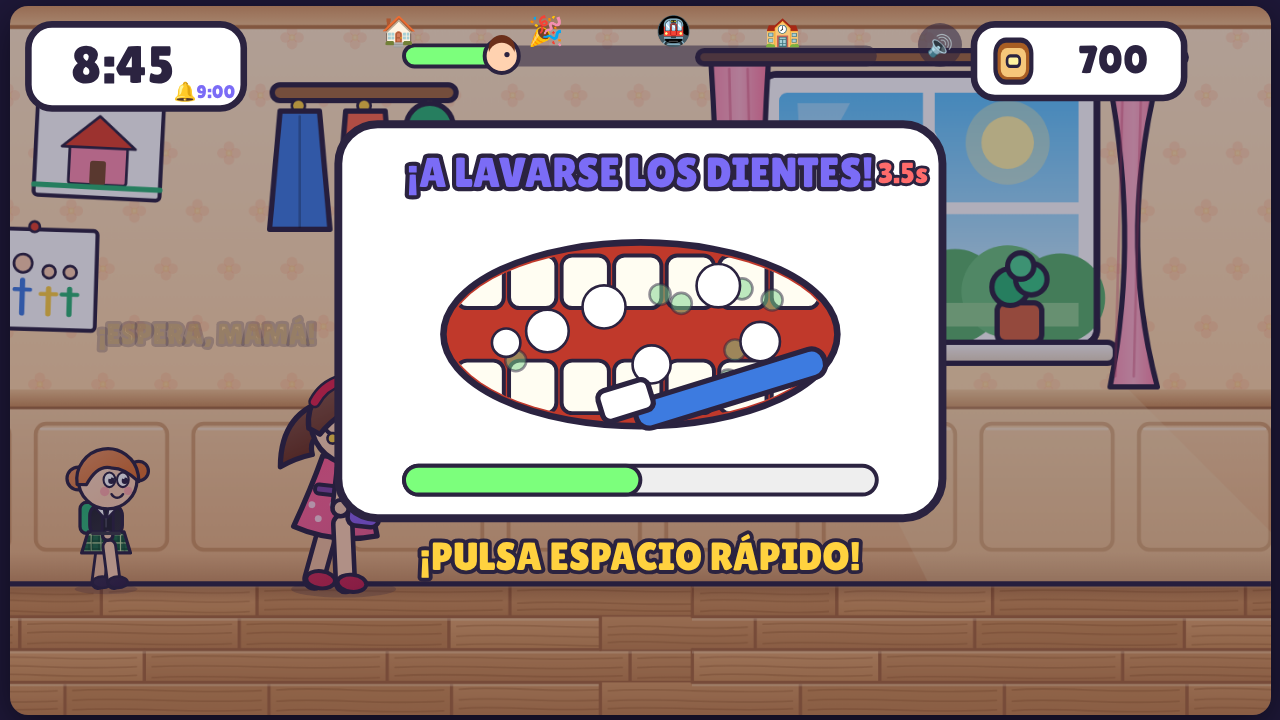
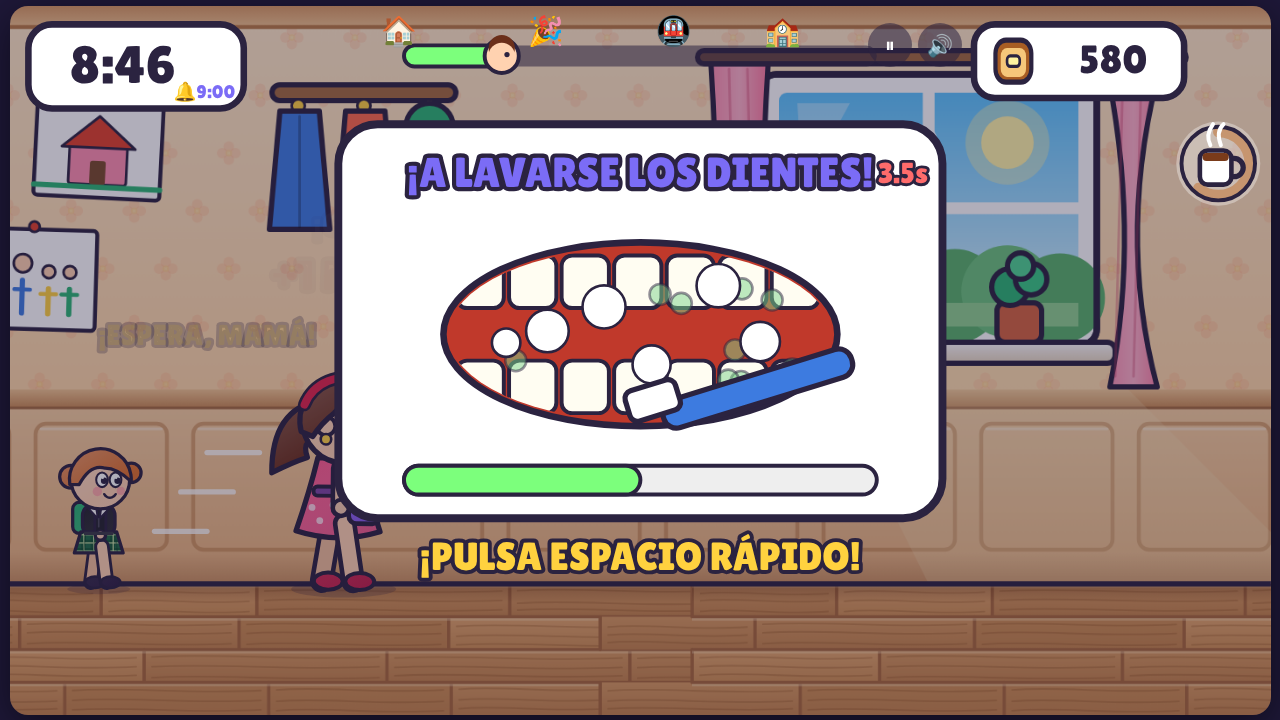
Álvaro's Gastrobar en Alcobendas, con Blanca saludando
Antes de llegar al cole aparece la fachada de Álvaro's Gastrobar (letrero de madera
con bombillas, toldo, escaparate con la barra y terraza). Blanca sale a la puerta,
saluda con la mano y con la voz, y os invita a un café (turbo).
Tests, capturas y README actualizados; el contador de visitas no se carga en los tests.

diff --git a/web/js/fondos.js b/web/js/fondos.js
@@ -419,3 +419,46 @@ function drawSchoolGate(sx,open){
   const w=170*(1-open);for(let x=0;x<w;x+=20)seg(sx+10+x,GY-180,sx+10+x,GY,'#4a4a5c',6);
   if(w>4){seg(sx+10,GY-180,sx+10+w,GY-180,'#4a4a5c',8);seg(sx+10,GY-90,sx+10+w,GY-90,'#4a4a5c',6);}
 }
+
+// ---------------- ÁLVARO'S GASTROBAR (Alcobendas) ----------------
+function drawAlvaros(sx,t){
+  const top=GY-300,w=420;
+  // fachada
+  rr(sx,top,w,300,6,lin(sx,0,sx+w,0,[[0,'#f4e6cc'],[1,'#ead6b2']]),5);
+  rr(sx-8,top-14,w+16,18,4,'#fffaf0',4);
+  // letrero de madera con bombillas
+  const lx=sx+40,ly=top+18,lw=340,lh=84;
+  seg(lx+70,top+4,lx+70,ly,'#5a4030',3);seg(lx+lw-70,top+4,lx+lw-70,ly,'#5a4030',3);
+  rr(lx,ly,lw,lh,8,'#24160f',0);rr(lx+4,ly+4,lw-8,lh-8,6,'#d9a868',0);rr(lx+12,ly+12,lw-24,lh-24,4,'#fffaf0',0);
+  const ph=Math.floor(t*4);let i=0;
+  for(let x=lx+14;x<=lx+lw-14;x+=14){[ly+8,ly+lh-8].forEach(y=>{const on=(i+ph)%3!==0;if(on){ctx.globalAlpha=.35;circ(x,y,5,'#ffe08a',0);ctx.globalAlpha=1;}circ(x,y,2.6,on?'#fff3b0':'#a8743e',0);i++;});}
+  // taza con vapor
+  rr(lx+26,ly+34,26,22,4,'#fff',3);rr(lx+26,ly+34,26,5,2,'#6f3b1e',0);ctx.beginPath();ctx.arc(lx+54,ly+45,6,-Math.PI/2,Math.PI/2);ctx.lineWidth=3;ctx.strokeStyle=OL;ctx.stroke();
+  for(let k=0;k<2;k++){ctx.beginPath();ctx.moveTo(lx+34+k*10,ly+30);ctx.quadraticCurveTo(lx+30+k*10+Math.sin(t*3+k)*3,ly+24,lx+36+k*10,ly+16);ctx.lineWidth=2.5;ctx.strokeStyle='#c9c9d4';ctx.stroke();}
+  txt("ÁLVARO'S",lx+lw/2+22,ly+36,34,'#c0392b','center','#fffaf0');
+  ctx.font="12px 'Lilita One',system-ui,sans-serif";ctx.textAlign='center';ctx.fillStyle='#8a5a32';ctx.fillText('G A S T R O B A R',lx+lw/2+22,ly+62);
+  // toldo
+  const ay=top+120;for(let k=0;k<12;k++){ctx.beginPath();const ax=sx+14+k*33;ctx.moveTo(ax,ay);ctx.lineTo(ax+33,ay);ctx.lineTo(ax+33,ay+26);ctx.quadraticCurveTo(ax+16,ay+36,ax,ay+26);ctx.closePath();shape(k%2?'#fffaf0':'#c0392b',0);}
+  rr(sx+14,ay,396,26,2,null,4);
+  // escaparate con el bar por dentro
+  const wx=sx+22,wy=ay+40,ww=250,wh=GY-wy-8;
+  rr(wx,wy,ww,wh,4,'#fdf6e8',4);
+  ctx.save();ctx.beginPath();ctx.rect(wx+3,wy+3,ww-6,wh-6);ctx.clip();
+  fillR(wx,wy,ww,wh,lin(0,wy,0,wy+wh,[[0,'#fff6dc'],[1,'#f3dfb8']]));
+  // lámparas y estantería
+  [wx+60,wx+190].forEach(x=>{seg(x,wy,x,wy+18,OL,2);ctx.beginPath();ctx.arc(x,wy+26,12,Math.PI,0);ctx.closePath();shape('#e9b820',2.5);ctx.globalAlpha=.25;circ(x,wy+34,26,'#fff3b0',0);ctx.globalAlpha=1;});
+  rr(wx+20,wy+48,210,6,2,'#a8713a',2);for(let k=0;k<9;k++)rr(wx+26+k*23,wy+32,12,16,3,['#e9b820','#8c7279','#2bb673','#c0392b'][k%4],2);
+  // barra
+  rr(wx,wy+wh-46,ww,46,0,'#a8713a',0);rr(wx,wy+wh-50,ww,6,0,'#dcae74',0);
+  [wx+40,wx+110,wx+180].forEach(x=>{rr(x,wy+wh-66,16,16,3,'#fff',2);rr(x,wy+wh-66,16,4,1,'#6f3b1e',0);});
+  rr(wx+140,wy+wh-90,40,40,6,'#9aa3a8',2.5);rr(wx+146,wy+wh-82,28,10,2,'#3a3f42',0);
+  ctx.restore();
+  ctx.globalAlpha=.35;ctx.beginPath();ctx.moveTo(wx+18,wy+8);ctx.lineTo(wx+60,wy+8);ctx.lineTo(wx+26,wy+wh-10);ctx.closePath();ctx.fillStyle='#fff';ctx.fill();ctx.globalAlpha=1;
+  rr(wx,wy,ww,wh,4,null,4);
+  // puerta
+  const dx=sx+296,dw=96;rr(dx,wy-6,dw,GY-wy+6,6,'#8a5a32',4);rr(dx+10,wy+6,dw-20,GY-wy-40,4,'#cfeeff',3);circ(dx+dw-16,GY-60,4,'#ffd23f',2);
+  rr(dx+14,wy+24,dw-28,22,4,'#fff',2);txt('ABIERTO',dx+dw/2,wy+35,12,'#2bb673','center','#fff');
+  // terraza
+  const tx=sx-110;rr(tx+40,GY-70,8,70,2,'#3a3550',2);ell(tx+44,GY-72,40,8,'#fffaf0',3);rr(tx+30,GY-88,14,12,3,'#fff',2);
+  [tx,tx+80].forEach(x=>{rr(x,GY-48,24,6,2,'#c0392b',2.5);seg(x+3,GY-42,x+3,GY,OL,3);seg(x+21,GY-42,x+21,GY,OL,3);seg(x+21,GY-48,x+21,GY-80,OL,3);});
+}

diff --git a/web/js/personajes.js b/web/js/personajes.js
@@ -10,6 +10,7 @@ const HEROES={
         lines:['¡Vamos, cariño!','¡Que llegamos tarde!','¿Y los zapatos?','¡Corre, corre!','¡La mochila!','¡Mis llaves!']},
   papa:{name:'Papá',hair:'#2d2016',top:'#3d7be0',bottom:'#2f3b66',leg:'#2f3b66',shoe:'#6b4423',tie:'#e0412a',
         lines:['¡Vamos, campeones!','¡Que llegamos tarde!','¿Quién tiene el almuerzo?','¡Corre, corre!','¡Ese abrigo!']},
+  blanca:{name:'Blanca',hair:'#f2c94c',bun:true,top:'#23232b',dots:'#23232b',belt:'#fff',leg:SKIN,shoe:'#2b2340',mom:true,apron:true,noBag:true,lines:[]},
   conserje:{name:'Conserje',hair:'#b9bfcc',top:'#3a4a6a',bottom:'#2b3352',leg:'#2b3352',shoe:'#222',tie:'#b9bfcc',noBag:true,lines:[]}
 };
 
@@ -69,24 +70,28 @@ function drawAdult(x,y,o){
   // pierna de delante
   limb(hip.x+5,hip.y,hip.x+5+ff.x,hip.y+ff.y,P.mom?SKIN:P.leg,11);ell(hip.x+5+ff.x+5,hip.y+ff.y,11,6.5,P.shoe,3);
   // bolso (mamá)
-  if(P.mom){seg(4,-92,18,-62,OL,3);rr(8,-66,24,20,6,'#8b5cf6',3.5);rr(16,-62,8,4,2,'#ffd23f',0);}
+  if(P.apron){ctx.beginPath();ctx.moveTo(-12,-74);ctx.lineTo(12,-74);ctx.lineTo(20,-40);ctx.lineTo(-20,-40);ctx.closePath();shape('#fff',3);seg(-12,-74,-6,-94,OL,2);seg(12,-74,6,-94,OL,2);rr(-8,-62,16,10,3,'#f6efe2',2);}
+  if(P.mom&&!P.noBag){seg(4,-92,18,-62,OL,3);rr(8,-66,24,20,6,'#8b5cf6',3.5);rr(16,-62,8,4,2,'#ffd23f',0);}
   // brazo de delante
-  const front=st==='jump'?{x:26,y:-128}:{x:2+Math.sin(aa)*28,y:-88+Math.cos(aa)*30};
-  limb(2,-88,front.x,front.y,SKIN,9);circ(front.x,front.y,6,SKIN,3);
+  const front=o.wave?{x:-42+Math.sin(t*11)*12,y:-176}:st==='jump'?{x:26,y:-128}:{x:2+Math.sin(aa)*28,y:-88+Math.cos(aa)*30};
+  limb(2,-88,front.x,front.y,SKIN,9);circ(front.x,front.y,o.wave?9:6,SKIN,3);
+  if(o.wave){for(let k=-1;k<=1;k++)seg(front.x+k*5,front.y-8,front.x+k*7,front.y-15,OL,2.5);}
   // cabeza
   const hx=4,hy=-124,r=32;
   circ(hx,hy,r,SKIN,4);
   circ(hx-14,hy+4,7,SKIN,3);
   if(P.mom){
     ctx.beginPath();ctx.arc(hx,hy,r+2,Math.PI*.92,Math.PI*2.04);ctx.quadraticCurveTo(hx+26,hy-6,hx+14,hy-10);ctx.quadraticCurveTo(hx+2,hy-18,hx-8,hy-6);ctx.quadraticCurveTo(hx-18,hy+2,hx-24,hy+12);ctx.closePath();shape(P.hair,4);
-    ctx.beginPath();ctx.arc(hx,hy,r+1,Math.PI*1.12,Math.PI*1.72);ctx.lineWidth=10;ctx.strokeStyle=OL;ctx.stroke();ctx.lineWidth=6;ctx.strokeStyle='#e0244a';ctx.stroke();
+    if(!P.apron){ctx.beginPath();ctx.arc(hx,hy,r+1,Math.PI*1.12,Math.PI*1.72);ctx.lineWidth=10;ctx.strokeStyle=OL;ctx.stroke();ctx.lineWidth=6;ctx.strokeStyle='#e0244a';ctx.stroke();}
     circ(hx-14,hy+14,4,'#ffd23f',2);
   }else{
     ctx.beginPath();ctx.arc(hx,hy,r+2,Math.PI*.95,Math.PI*1.98);ctx.lineTo(hx+30,hy-14);ctx.quadraticCurveTo(hx+20,hy-20,hx+10,hy-14);ctx.quadraticCurveTo(hx-6,hy-22,hx-20,hy-6);ctx.closePath();shape(P.hair,4);
     ctx.globalAlpha=.28;ctx.beginPath();ctx.arc(hx,hy,r-2,.05*Math.PI,.75*Math.PI);ctx.closePath();shape(P.hair,0);ctx.globalAlpha=1;
   }
+  if(P.bun){circ(hx-2,hy-34,13,P.hair,4);seg(hx-12,hy-28,hx+8,hy-28,'#c0392b',4);}
   face(hx-6,hy,r,o,P.mom,false);
   if(!P.mom){seg(hx+2,hy-14,hx+12,hy-16,OL,4);seg(hx+18,hy-16,hx+28,hy-14,OL,4);}
+  if(o.wave){limb(-10,-96,front.x,front.y,SKIN,9);circ(front.x,front.y,9,SKIN,3);for(let k=-1;k<=1;k++)seg(front.x+k*5,front.y-8,front.x+k*7,front.y-15,OL,2.5);}
   SHADEG=null;ctx.restore();
 }
 const kc=c=>c==='gold'?'#f5c542':c;

diff --git a/web/js/partida.js b/web/js/partida.js
@@ -16,7 +16,7 @@ function newRun(){
      banner:{txt:G.manana==='lunes'?'¡CASA!':MANANAS[G.manana].banner,t:1.9},sec:'casa',end:false,freeze:0,st:{maxMult:1,powers:[],reflex:9},
      mode:MODO(),events:[],assistDuck:false,lastPrompt:0};
   // sorpresas: el almuerzo olvidado y el perro que viene por detrás, en sitios al azar
-  const zonaA=[B1+1400,BM-1600],zonaB=[BM+900,B2-1900];
+  const zonaA=[B1+1400,BM-1600],zonaB=[BM+900,BAR_X-1700];
   const [z1,z2]=Math.random()<.5?[zonaA,zonaB]:[zonaB,zonaA];
   R.events.push({type:'lunch',at:rnd(z1[0],z1[1]),done:false},{type:'chase',at:rnd(z2[0],z2[1]),done:false});
   hablar(G.manana==='lunes'?'¡Que llegamos tarde!':MANANAS[G.manana].banner.replace(/¡|!/g,''),true);
@@ -32,7 +32,7 @@ const speedAt=x=>(330+Math.min(170,x/140))*(R&&R.mode?R.mode.vel:1);
 function spawn(){
   while(R.gen<R.dist+W+700){
     const x=R.gen;
-    const blocked=R.moments.some(m=>x>m.at-1100&&x<m.at+250)||[B1,BM,B2].some(b=>x>b-450&&x<b+350)||x>D-1200||R.events.some(e=>x>e.at-200&&x<e.at+(e.type==='lunch'?1500:900));
+    const blocked=R.moments.some(m=>x>m.at-1100&&x<m.at+250)||[B1,BM,B2].some(b=>x>b-450&&x<b+350)||x>D-1200||R.events.some(e=>x>e.at-200&&x<e.at+(e.type==='lunch'?1500:900))||(x>BAR_X-700&&x<BAR_X+700);
     if(blocked){R.gen+=120;continue;}
     const sec=secAt(x);
     if(x>R.nextPow){const tipos=G.manana==='lluvia'?['umbrella','umbrella','scooter','coffee']:Object.keys(POWERS);R.items.push({kind:'power',type:pick(tipos),x:x,y:GY-170});R.nextPow=x+rnd(3800,5200);R.gen+=420;continue;}
@@ -110,6 +110,10 @@ function update(dt){
   const sec=secAt(R.dist+PX);if(sec!==R.sec){R.sec=sec;R.banner={txt:{sanse:'¡SANSE!',alco:'¡ALCOBENDAS!',cole:G.school?'¡'+G.school.toUpperCase()+'!':'¡EL COLE!'}[sec]||'',t:1.8};sfx('power');hablar({sanse:'¡Sanse!',alco:'¡Alcobendas!',cole:'¡Ya llegamos al cole!'}[sec]||'');}
   // momentos
   const m=R.moments.find(m=>!m.done&&R.dist>=m.at);if(m){startMoment(m);return;}
+  // Álvaro's Gastrobar: Blanca saluda desde la puerta y os da un café
+  if(!R.blanca&&R.dist+PX>BAR_X-120){R.blanca={t:0};hablar('¡Hola, familia! ¡Corred, que llegáis!',true);sfx('power');
+    setTimeout(()=>{if(R&&G.state==='play')say(G.hero==='papa'?'¡HOLA, BLANCA!':'¡GRACIAS, BLANCA!',PX+20,GY-210,'#ffd23f',24);},900);}
+  if(R.blanca){R.blanca.t+=dt;if(!R.blanca.cafe&&R.dist+PX>BAR_X+230){R.blanca.cafe=true;R.power={type:'coffee',t:POWERS.coffee.dur};if(!R.st.powers.includes('coffee'))R.st.powers.push('coffee');say('☕ ¡CAFÉ DE BLANCA!',PX+60,GY-250,'#fff',32);puff(PX,R.p.y-80,'#a85d23',16,200);sfx('win');}}
   // sorpresas
   R.events.forEach(ev=>{
     if(ev.done||R.dist<ev.at)return;ev.done=true;

diff --git a/web/js/pantalla.js b/web/js/pantalla.js
@@ -41,6 +41,12 @@ function drawScene(){
   const ranges=[['casa',-1e9,B1],['sanse',B1,BM],['alco',BM,B2],['cole',B2,1e12]];
   ranges.forEach(([k,a,b])=>{const sa=a-cam,sb=b-cam;if(sb<0||sa>W)return;ctx.save();ctx.beginPath();ctx.rect(Math.max(0,sa),0,Math.min(W,sb)-Math.max(0,sa),H);ctx.clip();BG[k](cam);ctx.restore();});
   const d1=B1-cam;if(d1>-200&&d1<W+50)drawFrontDoor(d1-60);
+  const bx=BAR_X-cam;if(bx>-560&&bx<W+140){drawAlvaros(bx,G.t);
+    const near=R&&R.blanca;const bxB=bx+262;
+    ctx.globalAlpha=.2;ell(bxB,GY+4,36,6,'#2b1a3a',0);ctx.globalAlpha=1;
+    drawAdult(bxB,GY,{hero:'blanca',state:'idle',t:G.t,wave:!!near,face:near?'open':'happy',sx:-1,blink:(G.t%3.3)<.12});
+    if(near&&near.t<2.6){const a=Math.min(1,(2.6-near.t)*2);ctx.globalAlpha=a;const qx=bxB+150,qy=GY-150;rr(qx-110,qy-30,220,58,18,'#fff',4);ctx.beginPath();ctx.moveTo(qx-100,qy+4);ctx.lineTo(qx-138,qy+14);ctx.lineTo(qx-100,qy+20);ctx.closePath();shape('#fff',0);txt('¡Hola, familia! ☕',qx,qy-1,22,'#c0392b','center','#fff');ctx.globalAlpha=1;}
+  }
 }
 function render(){
   ctx.setTransform(SC*DPR,0,0,SC*DPR,0,0);

diff --git a/web/js/base.js b/web/js/base.js
@@ -11,7 +11,7 @@ const hash=i=>{const s=Math.sin(i*127.1+311.7)*43758.5453;return s-Math.floor(s)
 
 const W=960,H=540,GY=440;
 const START=8*60+40,BELL=9*60,SEC_PER_MIN=5.5;
-const D=30000,B1=9000,BM=17100,B2=24000;           // longitud y fronteras casa|calle|cole
+const D=30000,B1=9000,BM=17100,B2=24000,BAR_X=B2-1450;   // BAR_X: Álvaro's Gastrobar, en Alcobendas           // longitud y fronteras casa|calle|cole
 const PX=250;                              // posición de la mamá en pantalla
 const OL='#2b2340';
 

diff --git a/tests/humo.py b/tests/humo.py
@@ -37,12 +37,17 @@ def main():
     srv, url = servidor()
     with sync_playwright() as p:
         b = p.chromium.launch()
+        # el contador de visitas (GoatCounter) no se carga en los tests: ni cuenta visitas falsas ni depende de la red
+        real_new_page = b.new_page
+        def new_page(**kw):
+            pg_ = real_new_page(**kw); pg_.route("**/gc.zgo.at/**", lambda r: r.abort()); pg_.route("**goatcounter.com/**", lambda r: r.abort()); return pg_
+        b.new_page = new_page
 
         # --- escritorio: partida completa ---
         pg = b.new_page(viewport={"width": 1280, "height": 720})
         errores = []
         pg.on("pageerror", lambda e: errores.append(str(e)))
-        pg.on("console", lambda m: m.type == "error" and errores.append(m.text))
+        pg.on("console", lambda m: m.type == "error" and "Failed to load resource" not in m.text and errores.append(m.text))
         pg.goto(url); pg.evaluate("()=>{localStorage.clear();localStorage.setItem('sr-tut','1')}"); pg.goto(url)
         pg.wait_for_timeout(800)
         ok(pg.is_visible("#play"), "El menú se muestra con el botón ¡A CORRER!")
@@ -88,6 +93,13 @@ def main():
             pg.evaluate("()=>{R.dist=12000;R.gen=12400;R.obs=[];R.items=[];R.moments.forEach(m=>{if(m.at<13000)m.done=true})}")
             pg.wait_for_timeout(1500)
             ok(pg.evaluate("()=>G.state==='play'&&R.mode.vel>1"), f"Mañana '{man}' en modo padres: se juega sin errores")
+
+        # --- Álvaro's Gastrobar en Alcobendas ---
+        pg.goto(url); pg.evaluate("()=>{localStorage.clear();localStorage.setItem('sr-tut','1')}"); pg.goto(url)
+        pg.wait_for_timeout(500); pg.click("#play"); pg.wait_for_timeout(300)
+        pg.evaluate("()=>{R.dist=BAR_X-600;R.gen=R.dist+300;R.obs=[];R.items=[];R.events.forEach(e=>e.done=true);R.moments.forEach(m=>{if(m.at<BAR_X)m.done=true})}")
+        pg.wait_for_timeout(2600)
+        ok(pg.evaluate("()=>!!R.blanca&&R.blanca.cafe&&secAt(BAR_X)==='alco'"), "En Alcobendas, Blanca saluda desde Álvaro's Gastrobar y da un café")
 
         # --- pausa y ajustes ---
         pg.goto(url); pg.evaluate("()=>{localStorage.clear();localStorage.setItem('sr-tut','1')}"); pg.goto(url)

diff --git a/scripts/capturas.py b/scripts/capturas.py
@@ -85,6 +85,9 @@ def main():
         pg.evaluate("()=>{const o={type:'bull',x:R.dist+PX+560,w:108,h:76,t:0,vx:-175};OB.bull.init(o);R.obs.push(o)}")
         pg.wait_for_timeout(500); pg.screenshot(path=str(IMG / "toro.png"))
         ir_a(pg, 19300); pg.screenshot(path=str(IMG / "alcobendas.png"))
+        ir_a(pg, 22550 - 760, 200)
+        pg.evaluate("()=>{R.banner=null;R.texts=[]}"); pg.wait_for_timeout(850)
+        pg.screenshot(path=str(IMG / "alvaros.png"))
         ir_a(pg, 25200); pg.screenshot(path=str(IMG / "cole.png"))
 
         # golpe

diff --git a/README.md b/README.md
@@ -104,7 +104,9 @@ De casa al cole pasando por **San Sebastián de los Reyes** y **Alcobendas**, di
 | Estantería con libros, dibujos en la pared y Legos por el suelo | El Ayuntamiento con sus soportales y banderas, la torre de la iglesia con su **cigüeña**, la Calle Real, la churrería, la peña taurina, banderines y **talanqueras** |
 | 🚇 **Alcobendas** | 🏫 **El cole** |
 | <img src="docs/img/alcobendas.png" alt="Alcobendas"> | <img src="docs/img/cole.png" alt="El cole"> |
-| Bloques de **ladrillo visto** con toldos y aparatos de aire, la calle Marquesa Viuda de Aldama, la iglesia de ladrillo y la boca de **metro de la Línea 10** | Fachada de ladrillo, torre del reloj y valla verde. El cartel lleva **el nombre de tu cole** (lo escribes en 👕 Peques) |
+| Bloques de **ladrillo visto** con toldos y aparatos de aire, la calle Marquesa Viuda de Aldama, la iglesia de ladrillo, la boca de **metro de la Línea 10** y, antes de llegar al cole, **Álvaro's Gastrobar** | Fachada de ladrillo, torre del reloj y valla verde. El cartel lleva **el nombre de tu cole** (lo escribes en 👕 Peques) |
+
+<p align="center"><img src="docs/img/alvaros.png" alt="Álvaro's Gastrobar" width="70%"><br><sub>Antes de llegar al cole, pasáis por <b>Álvaro's Gastrobar</b> y <b>Blanca</b> os saluda desde la puerta… ¡y os invita a un café! ☕</sub></p>
 
 <p align="center"><img src="docs/img/toro.png" alt="El toro de los encierros" width="70%"><br><sub>En Sanse, cuidado: ¡se ha escapado un toro del encierro! 🐂</sub></p>
 
@@ -473,6 +475,7 @@ python3 scripts/capturas.py
 - [x] Fondos ilustrados por capas y personajes con sombreado
 - [x] Fuentes dentro de la web, sin peticiones a Google
 - [x] Calles de Sanse y Alcobendas, con el toro de los encierros
+- [x] Álvaro's Gastrobar, con Blanca saludando y un café de regalo
 - [x] Nombre del cole editable
 - [x] Uniforme del cole: jersey negro y falda de cuadros verde o pantalón gris
 - [x] Código organizado por temas y tests automáticos

diff --git a/README.en.md b/README.en.md
@@ -103,7 +103,7 @@ It's **8:40**. Wake up, breakfast, brush teeth, get dressed… and the school ga
 | Bookshelf, kids' drawings on the wall and Lego on the floor | Town hall with arcades and flags, church tower with its **stork**, Calle Real, churro shop, bunting and wooden **bull-run fences** |
 | 🚇 **Alcobendas** | 🏫 **School** |
 | <img src="docs/img/alcobendas.png" alt="Alcobendas"> | <img src="docs/img/cole.png" alt="School"> |
-| **Exposed-brick** blocks with awnings, Marquesa Viuda de Aldama street, a brick church and the **Metro Line 10** entrance | Brick façade, clock tower and green fence. The sign shows **your school's name** (set it in 👕 Peques) |
+| **Exposed-brick** blocks with awnings, Marquesa Viuda de Aldama street, a brick church the **Metro Line 10** entrance and, just before school, **Álvaro's Gastrobar**, where Blanca waves from the door and gives you a coffee ☕ | Brick façade, clock tower and green fence. The sign shows **your school's name** (set it in 👕 Peques) |
 
 <a id="moments"></a>
 
